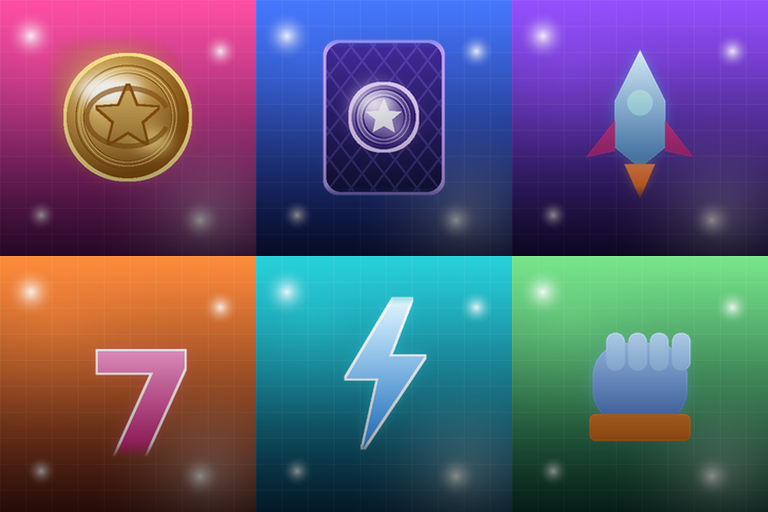
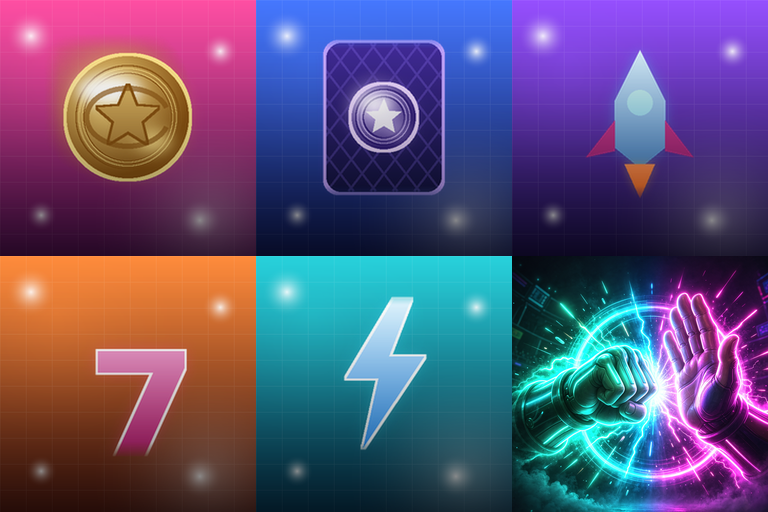
art update 1

Changed region(s): [[0.6562, 0.5, 1.0, 1.0]]

diff --git a/menu-features.js b/menu-features.js
@@ -1147,14 +1147,22 @@
 
 /* ---- RPS ---- */
 .arc-root .arc-arena{display:flex;align-items:center;justify-content:space-between;gap:8px;
-  padding:12px 8px;border-radius:14px;background:linear-gradient(90deg,rgba(63,232,255,.10),rgba(255,79,163,.10));
-  border:1px solid rgba(180,170,255,.24)}
-.arc-root .arc-hand{width:88px;height:88px;display:grid;place-items:center;position:relative}
-.arc-root .arc-hand .arc-sp{width:82px;height:82px}
+  position:relative;overflow:hidden;padding:14px 8px;border-radius:14px;
+  background:linear-gradient(90deg,rgba(63,232,255,.12),rgba(20,16,52,.55) 50%,rgba(255,79,163,.12));
+  border:1px solid rgba(180,170,255,.28);
+  box-shadow:inset 0 0 30px rgba(0,0,0,.45),0 0 22px rgba(90,60,190,.22)}
+.arc-root .arc-arena:before{content:"";position:absolute;inset:0;pointer-events:none;
+  background:radial-gradient(circle at 22% 55%,rgba(63,232,255,.30),transparent 46%),
+             radial-gradient(circle at 78% 55%,rgba(255,79,163,.30),transparent 46%)}
+.arc-root .arc-arena:after{content:"";position:absolute;left:50%;top:8%;bottom:8%;width:1px;
+  background:linear-gradient(180deg,transparent,rgba(200,190,255,.5),transparent);pointer-events:none}
+.arc-root .arc-hand{width:106px;height:106px;display:grid;place-items:center;position:relative;z-index:1;flex:none}
+.arc-root .arc-hand .arc-sp{width:102px;height:102px;
+  filter:drop-shadow(0 7px 13px rgba(0,0,0,.65)) drop-shadow(0 0 15px rgba(120,130,255,.55))}
 .arc-root .arc-hand.shake{animation:arc-shakeHand .48s ease-in-out infinite}
 .arc-root .arc-hand.reveal{animation:arc-pop .42s cubic-bezier(.2,.8,.3,1.5)}
 .arc-root .arc-hand.cpu .arc-sp{transform:scaleX(-1)}
-.arc-root .arc-vs{text-align:center;flex:1}
+.arc-root .arc-vs{text-align:center;flex:1;position:relative;z-index:1}
 .arc-root .arc-vs .arc-sp{width:46px;height:46px}
 .arc-root .arc-vs b{display:block;font-size:11px;letter-spacing:2px;margin-top:3px;opacity:.8}
 .arc-root .arc-score{display:flex;justify-content:center;gap:22px;margin:12px 0 4px}
@@ -1163,6 +1171,9 @@
 .arc-root .arc-score .arc-pips{margin-top:5px;justify-content:center}
 .arc-root .arc-hist{display:flex;gap:4px;justify-content:center;flex-wrap:wrap;margin-top:10px}
 .arc-root .arc-hist .arc-sp{width:24px;height:24px}
+.arc-root .arc-btn .arc-sp.sm{width:34px;height:34px;
+  filter:drop-shadow(0 0 7px rgba(120,140,255,.65))}
+.arc-root .arc-btn:has(.arc-sp.sm){padding:7px 12px 7px 8px}
 
 /* ---- Shared keyframes ---- */
 @keyframes arc-float{0%,100%{transform:translateY(0) rotate(-6deg)}50%{transform:translateY(-8px) rotate(4deg)}}
